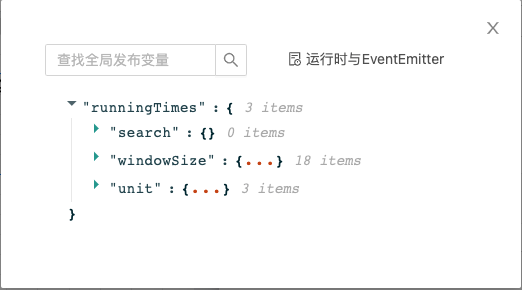
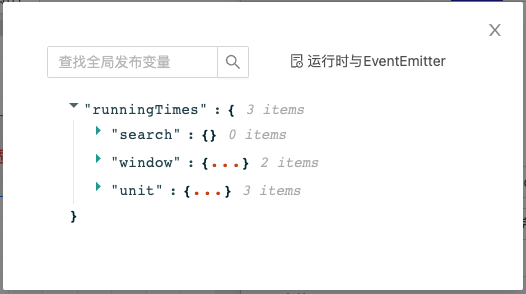
更新文档

diff --git a/src/redux/runningTimes.ts b/src/redux/runningTimes.ts
@@ -7,24 +7,8 @@ const height = window.innerHeight;
 const width = window.innerWidth;
 
 const windowSize = {
-    WH: height,
-    WW: width,
-    'WW/2': width/2,
-    'WH/2': height/2,
-    'WW/4': width/4,
-    'WH/4': height/4,
-    'WW/6': width/6,
-    'WH/6': height/6,
-    'WW/8': width/8,
-    'WH/8': height/8,
-    'WW/10': width/10,
-    'WH/10': height/10,
-    'WW/20': width/20,
-    'WH/20': height/20,
-    'WW/30': width/30,
-    'WH/30': height/30,
-    'WW/40': width/40,
-    'WH/40': height/40,
+    height,
+    width,
 }
 
 interface RunningTimesItem {
@@ -35,7 +19,7 @@ const defaultData : {
     [keys: string]: RunningTimesItem;
 } = {
     search: parsed,
-    windowSize,
+    window: windowSize,
     unit: {
         vw: width/100,
         vh: height/100,

diff --git a/documents/script/README.md b/documents/script/README.md
@@ -34,4 +34,25 @@
 
 ### {{}}取数规则
 
+设置面板中`{{}}`用于在运行时中获取数据,当我们把故意设定的参数发布到运行时后,即可通过`{{}}`来获取运行时的数据;
+
+比如`runningTimes`中有默认`window`的`width`值.
+
+```javascript
+    {
+        "search": {...},
+        "window": {
+            "height": 736,
+            "width": 414
+        },
+        "unit": {...}
+    }
+```
+
+我们可以通过如下方式来获取:
+
+![图片](./getdata.png)
+
+> 这里要注意,`{{}}`的root数据之乡的是runningTimes,所以在写`屏幕宽度={{window.width}}`不用写成`{{runningTimes.window.width}}`,而且`{{}}`的取数规则也仅能取到runningTimes下的数据;如果需要取页面window的值可以通过洗面`js{{}}`来实现;
+
 ### js{{}}表达式规则 source.xxx
